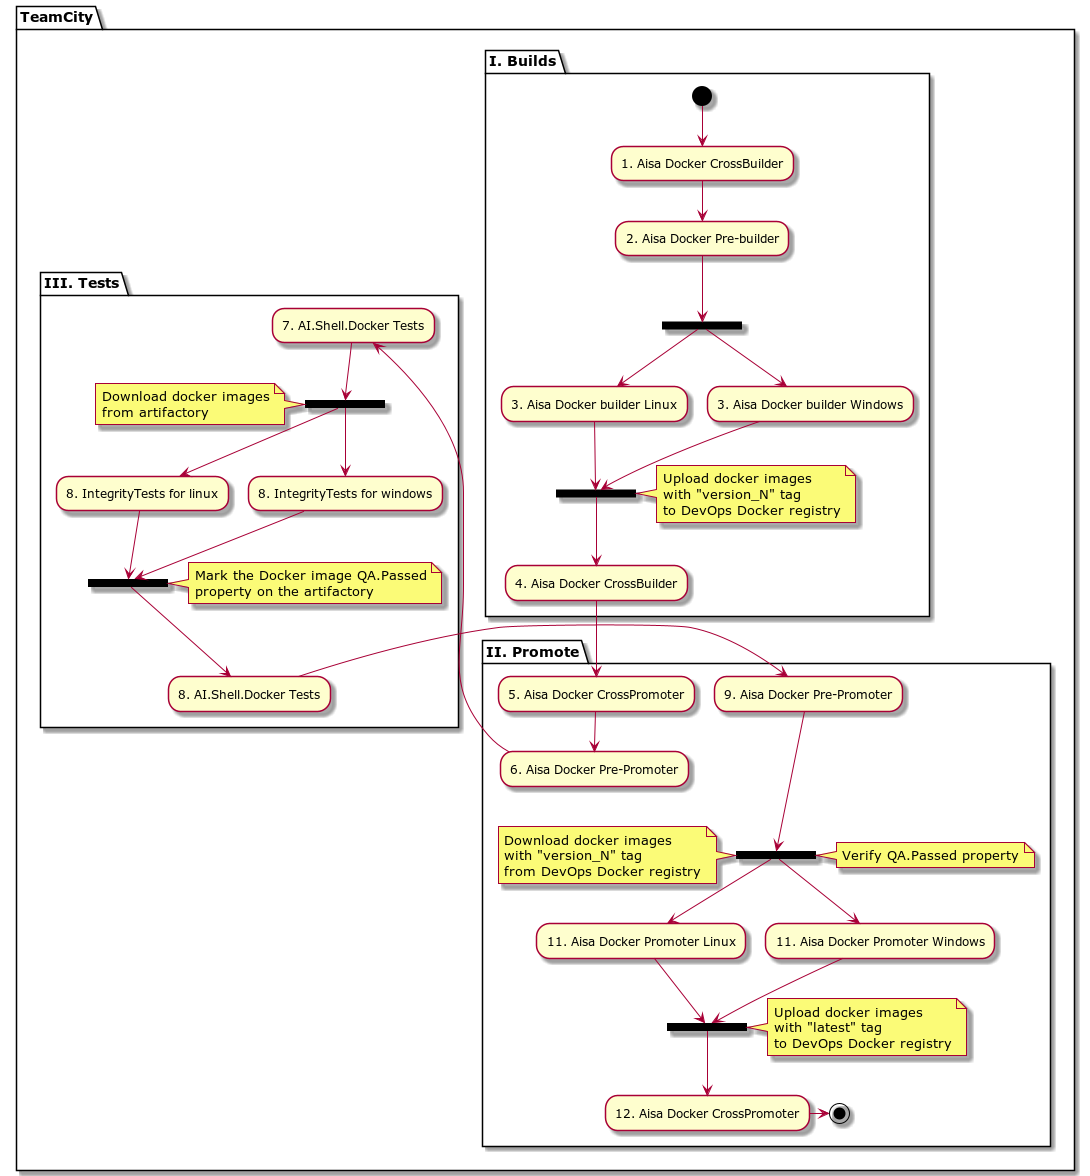
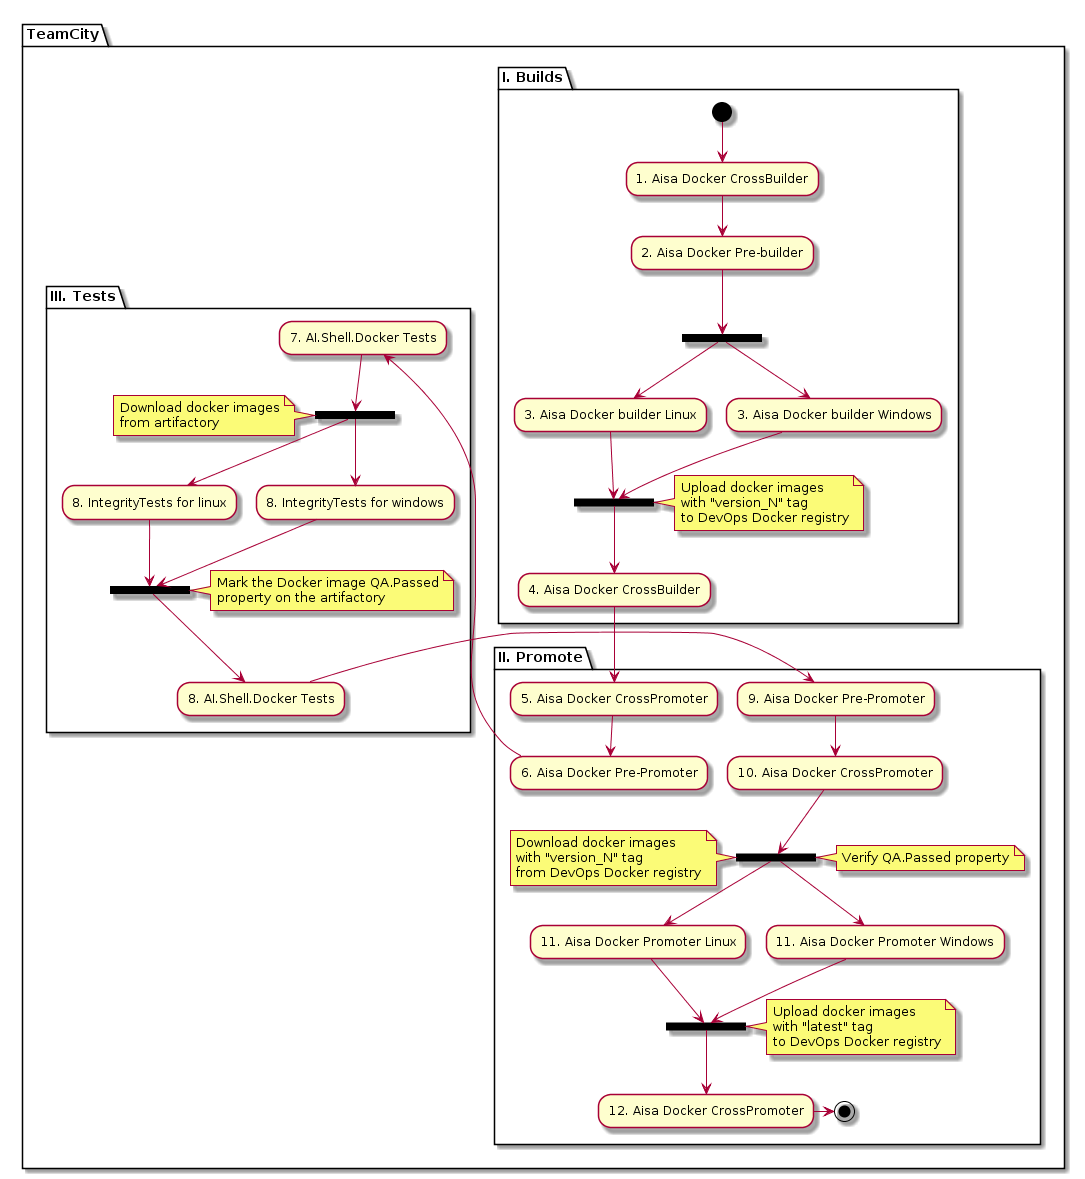
Update README.md

Changed region(s): [[0.0, 0.0, 1.0, 1.0]]

diff --git a/README.md b/README.md
@@ -153,18 +153,118 @@ PT Application Inspector выделяется среди конкурентов 
 ![](/.media/04_PlantUML_Docker_Build.png)
 ![](/.media/06_TeamCity_CI_Process.png)
 
-### Инструкция по cборке Docker контейнеров
+### Сборка Docker контейнеров
+С примером Dockerfile'ов вы можете ознакомиться в директории [AISA_Docker](/AISA_Docker).
 
-- [ ] Добавить комментарии, что как временное решение используются вспомогательные утилиты (скрипты на Python)
-- [ ] Описать, откуда можно взять установчные бинари для клиента
-    
+На вход подается три основных параметра: токен доступа, адрес сервера, установочный пакет.
+
+| Args           | Описание                                     |
+|----------------|----------------------------------------------|
+| `AISA_TOKEN`   | Токен доступа к AIE серверу со стороны Aisa. |
+| `AISA_URI`     | URI до сервера.                              |
+| `AISA_PACKAGE` | Путь до пакета.<br>Можно выкачивать как через wget, так и класть в репозиторий с файлами для докера. |
+
+Как временное решение используются вспомогательные утилиты, представляющие из себя скрипты на Python.
+Более подробно об утилитах смотри в разделе "[Утилиты и переменные окружения](#утилиты-и-переменные-окружения)".
+
+Первый этап включает в себя одновременную сборку двух докер-образов под Linux и Windows и выкладывание их в 
+докер-регистри. Для докер-тега используется версия AISA и билд-номер. По завершению этапа сборки, на докер-образы, как 
+на артефакты, назначаются дополнительные метки, например, пустые метки качества.
+
+Третим этапом является назначение на докер-образы тега `latest`, что по сути и является знаком к их продвижению (promote) 
+из snapshot-репозитория в release-репозиторий. Неотъемлемой частью этого этапа является шаг приемочного тестирования, по 
+завершению которого на докер-образы назначаются метки качества, которые будут проверены в следующих шагах "промоутера".
+
+В случае, если в ходе эксплуатации новой версии клиента мы находим баг, непокрытый тестами, мы вручную запускаем этап 
+промоута и передаем на вход предыдущую версию докер-образа. Повторное тестирование при этом не производится, так как 
+метки качества уже проставлены.
+
+Для сборки Docker образов `aisa-windows` и `aisa-linux` мы используем `major.minor.patch.build-docker_build`, где 
+`major.minor.patch.build` является версией Application Inspector Shell Agent (AISA), а `docker_build` является версией 
+билда сборочной конфигураии `docker builder`'a.
+
+Теперь рассмотрим этапы сборки:
+
+#### I. Build
+
+На вход конфигурации `Aisa Docker CrossBuilder` передаем `AISA_TOKEN`, `AISA_URI`, `AISA_PACKAGE` и `release_build`:`TRUE`/`FALSE`
+
+|  Этап |    Сборочная конфигурация     | Описание                                                                                                                                                                                                                                                             |
+|:-----:|:------------------------------|----------------------------------------------------------------------------------------------------------------------------------------------------------------------------------------------------------------------------------------------------------------------|
+| 1 / 4 | `Aisa Docker CrossBuilder`    | Передает версию AISA на зависимые сборки.<br> Передает флаг `release_build`:`TRUE`/`FALSE` на зависимые сборки (флаг `TRUE` распространяется по умолчанию).<br> ---<br> По завершению сборок запускает `Aisa Docker Cross Promoter`, передает версию docker образов. |
+|   2   | `Aisa Docker Pre-builder`     | Запускает `Aisa Docker builder Windows`.<br> Запускает `Aisa Docker builder Linux`.                                                                                                                                                                                  |
+|   3   | `Aisa Docker builder Windows` | Собирает `aisa-windows`.<br> Проставляет **property** `promoted` == `None`.<br> Проставляет **property** `qa.tests` = `None`.<br> Проставляет **property** `release_build` = `TRUE`/`FALSE`.                                                                         |
+|   3   | `Aisa Docker builder Linux`   | Собирает `aisa-linux`.<br> Проставляет **property** `promoted` == `None`.<br> Проставляет **property** `qa.tests` = `None`.<br> Проставляет **property** `release_build` = `TRUE`/`FALSE`.                                                                           |
+
+#### II. Promote
+
+Запуск механизма присвоения тега `latest` для docker образов `aisa-windows` и `aisa-linux` осуществляется путем передачи 
+версии docker образа в формате `major.minor.patch.build-docker_build` со стороны сборочной конфигурации `Aisa Docker 
+CrossBuilder` в сборочную конфигурацию `Aisa Docker Cross Promoter`.
+
+|  Этап  |    Сборочная конфигурация      | Описание                                                                                                                                                                                                                                                                                                             |
+|:------:|:-------------------------------|----------------------------------------------------------------------------------------------------------------------------------------------------------------------------------------------------------------------------------------------------------------------------------------------------------------------|
+| 5 / 10 | `Aisa Docker Cross Promoter`   | Передает версию AISA docker образов на зависимые сборки.<br> Передает флаг release_build:TRUE/FALSE на зависимые сборки.<br> ---<br> По завершению сборок запускает проставляет версию AISA в property docker образов `aisa-windows` и `aisa-linux`.<br> По завершению сборок запускает `Aisa Docker Cross Promoter` |
+|    6   | `Aisa Docker Pre-Promoter`     | Запускает `AI.Shell.Docker Tests`, передает версию docker образов<br> ---<br> По завершению тестов запускает `Aisa Docker Promoter Linux`<br> По завершению тестов запускает `Aisa Docker Promoter Windows`                                                                                                            |
+|    9   | `Aisa Docker Promoter Linux`   | Получает **property** `aisa-linux` docker образа:<br> если `qa.tests` == `ok`<br> и `release_build` == `TRUE`, тегируется `latest` docker образ<br> и `release_build` = `FALSE`, тегируется `develop` docker образ<br> проставляется **property** `promoted` == `TRUE`                                               |
+|    9   | `Aisa Docker Promoter Windows` | Получает **property** `aisa-windows` docker образа:<br> если `qa.tests` == `ok`<br> и `release_build` == `TRUE`, тегируется `latest` docker образ<br> и `release_build` = `FALSE`, тегируется `develop` docker образ<br> проставляется **property** `promoted` == `TRUE`                                             |
+
+#### III. Tests
+
+Запуск тестирования docker образов `aisa-windows` и `aisa-linux` осуществляется путем передачи версии docker образа в 
+формате `major.minor.patch.build-docker_build` со стороны сборочной конфигурации `Aisa Docker Pre-Promoter` в корневую 
+сборочную конфигурацию `AI.Shell.Docker Tests`.
+
+|  Этап | Сборочная конфигурация  | Описание                                                                                                                                                                                                                                                                                                                                                                                           |
+|:-----:|:------------------------|----------------------------------------------------------------------------------------------------------------------------------------------------------------------------------------------------------------------------------------------------------------------------------------------------------------------------------------------------------------------------------------------------|
+| 7 / 9 | `AI.Shell.Docker Tests` | Передает версию AISA docker образов на зависимые сборки.<br> Запускает проверку на наличие **property** `qa.tests` == `ok`. <br> *В случае, если тесты уже были пройдены - шаг тестирования пропускается*<br> Запускает группы тестов: `Tests Linux` и `Tests Windows`<br> ---<br> По завершению тестов проставляет **property** `qa.tests` == `ok` на `aisa-windows` и `aisa-linux` docker образы. |
+|   8   | `Tests Linux`           |                                                                                                                                                                                                                                                                                                                                                                                                    |
+|  ...  | Тестовые конфигурации   |                                                                                                                                                                                                                                                                                                                                                                                                    |
+|   8   | `Tests Windows`         |                                                                                                                                                                                                                                                                                                                                                                                                    |
+|  ...  | Тестовые конфигурации   |                                                                                                                                                                                                                                                                                                                                                                                                    |
+
+Пример приемочных тестов:
+
+|   №  |                       Сборочная конфигурация                        | Описание                                                             |
+|:----:|:--------------------------------------------------------------------|----------------------------------------------------------------------|
+| 1.   | `AI.Shell.Docker Tests`                                             | Root конфигурация, которая запускает все интеграционные тесты        |
+| 2.   | **Tests Linux**                                                     |                                                                      |
+| 2.1. | `[IntegrityTest] Docker aisa-linux create project`                  | Создание проекта без запуска сканирования                            |
+| 2.2. | `[IntegrityTest] Docker aisa-linux create project with policy`      | Назначение политики сканирования на проект, без запуска сканирования |
+| 2.3. | `[IntegrityTest] Docker aisa-linux create project and quick scan`   | Создание проектов и запуск сканирования без ожидания завершения      |
+| 2.4. | `[IntegrityTest] Docker aisa-linux create project and long scan`    | Создание проектов и запуск сканирования с ожиданием завершения       |
+| 2.5. | `[IntegrityTest] Docker aisa-linux quick scan`                      | Запуск сканирования без ожидания завершения                          |
+| 2.6. | `[IntegrityTest] Docker aisa-linux long scan`                       | Запуск сканирования с ожиданием завершения                           |
+| 2.7  | `[IntegrityTest] Docker aisa-linux get multi-report`                | Запуск сканирования с последующим получением всех типов отчетов      |
+| 3.   | **Tests Windows**                                                   |                                                                      |
+| 3.1. | `[IntegrityTest] Docker aisa-windows create project`                | Создание проекта без запуска сканирования                            |
+| 3.2. | `[IntegrityTest] Docker aisa-windows create project with policy`    | Назначение политики сканирования на проект, без запуска сканирования |
+| 3.3. | `[IntegrityTest] Docker aisa-windows create project and quick scan` | Создание проектов и запуск сканирования без ожидания завершения      |
+| 3.4. | `[IntegrityTest] Docker aisa-windows create project and long scan`  | Создание проектов и запуск сканирования с ожиданием завершения       |
+| 3.5. | `[IntegrityTest] Docker aisa-windows quick scan`                    | Запуск сканирования без ожидания завершения                          |
+| 3.6. | `[IntegrityTest] Docker aisa-windows long scan`                     | Запуск сканирования с ожиданием завершения                           |
+| 3.7. | `[IntegrityTest] Docker aisa-windows get multi-report`              | Запуск сканирования с последующим получением всех типов отчетов      |
+
+
+
 ## Алгоритм работы методики с использованием AISA
 
 ![](/.media/05_PlantUML_Ci_Process.png)
-- [ ] Пошагово расписать как выполняется job'a на примере схемы
-- [ ] Параметризацию проекта
-- [ ] Добавить схему задачи на сканирование
-- [ ] Описать каким образов сделать параметризацию проекта (временное решение)
+ 
+После старта задачи происходит выгрузка исходного кода и загрузка докер-образа на CI-агент. Затем, в зависимости от 
+операционной системы, используется либо Linux либо Windows докер-образ с AISA. 
+Для генерации проекта используется вспомогательная утилита - [aisa-set-settings](/AISA_Docker/aisa-linux/docker_build_data/applications/aisa-set-settings.py),
+генерирующая `.aiproj` файл с настройками проекта.
+
+В случае, если проект был создан заранее, мы будем использовать аргумент `--project-name`, для отправки исходного кода в 
+нужный нам проект. Если же проекта ещё нет на сервере, что бывает при тиражировании на большое количество сборок, то 
+мы будем использовать аргумент `--project-settings-file`, которому мы передадим имя нашего файла с настройками проекта. При 
+отправке исходного кода на сервер проект будет создан и код начнет сканироваться. А при повторном использовании настройки обновятся.
+
+Время ожидания окончания сборки можно сократить при использовании аргумента `--no-wait` - Aisa только отправляет исходный
+код.
+
+Если нам нужны отчеты, то нужно воспользоваться аргументами `--reports` и `--reports-folder`
     
 ## Типовые шаблоны для отправки проектов на сканирование в AIE
 ### Как подключить AIE скан в сборочном проекте GitLab CI
